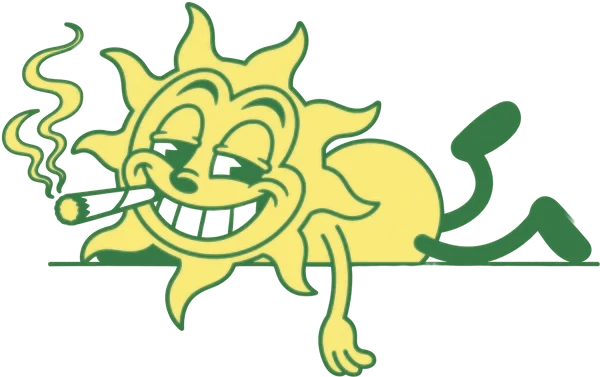
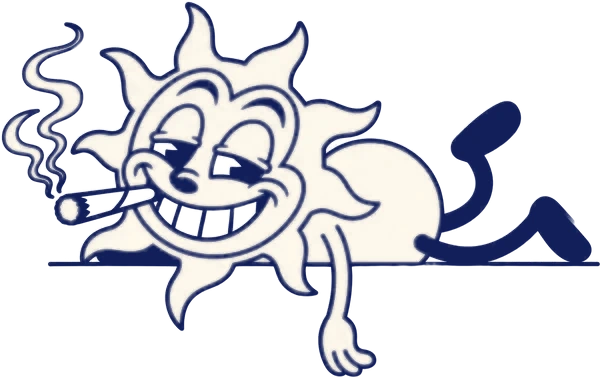
Switch the site to navy on cream
Navy #111E5A and cream #FEF4E3 replace the logo green and yellow. Cream
is the accent on navy (buttons, highlights); a soft navy marks accents
on the cream page. The Instagram band turns navy with a cream button,
and the current menu item is underlined so it still stands out.

Mascots are recoloured to cream with navy line work, logos are rebuilt
in exact navy and cream from the logo artwork, and the favicon and
theme colour follow.

diff --git a/src/styles/global.css b/src/styles/global.css
@@ -1,23 +1,23 @@
 :root {
-  /* Brand palette from the Mister Mellow logo: green #347845 on yellow #FBEB77.
-     Token names are kept from the first (navy/orange) palette so every rule picks the new colours up. */
-  --navy: #347845;      /* brand green: header, footer, panels, buttons, headings */
-  --navy-2: #2b6639;    /* slightly deeper green for panels on green */
-  --orange: #fbeb77;    /* brand yellow: accents on green, yellow buttons */
-  --orange-2: #fff29a;
-  --deep-yellow: #d9b92c; /* yellow that still shows on the light background */
-  --cream: #fffbea;
-  --paper: #fffdf2;
-  --purple: #1f4a29;    /* dark green for eyebrows and italic accents */
-  --lavender: #e4f0e2;  /* pale tints for product tiles and boxes */
-  --peach: #fff3bf;
-  --pink: #eef5e4;
-  --butter: #fff6b8;
-  --ink: #1f4a29;
-  --muted: #3d5c45;
+  /* Navy on cream: navy #111E5A and cream #FEF4E3.
+     Token names are kept from the first (navy/orange) palette so every rule picks the colours up. */
+  --navy: #111e5a;      /* header, footer, panels, buttons, headings */
+  --navy-2: #1c2b72;    /* slightly lighter navy for panels on navy */
+  --orange: #fef4e3;    /* accent on navy: cream buttons, highlights, prices */
+  --orange-2: #fffaf0;
+  --deep-yellow: #6f7bb5; /* soft navy accent that still shows on cream (sticker shadows, focus rings) */
+  --cream: #fef4e3;
+  --paper: #fffaf1;
+  --purple: #111e5a;    /* eyebrows and italic accents */
+  --lavender: #e9e8f1;  /* pale tints for product tiles and boxes */
+  --peach: #f8ecd6;
+  --pink: #efebf0;
+  --butter: #faf0db;
+  --ink: #111e5a;
+  --muted: #3e4874;
   --sky: #6fb1e0;
-  --bg: #fdf7d2;        /* light yellow page background */
-  --line: rgba(31, 74, 41, 0.16);
+  --bg: #fef4e3;        /* cream page background */
+  --line: rgba(17, 30, 90, 0.14);
   --radius: 22px;
   --display: "Archivo Black", "Arial Black", sans-serif;
   --serif: "Cormorant Garamond", Georgia, serif;
@@ -125,7 +125,7 @@ h1, h2, h3 { margin: 0; line-height: 1.02; }
   color: var(--cream);
   transition: box-shadow 0.3s ease;
 }
-.site-header.scrolled { box-shadow: 0 10px 30px rgba(31, 74, 41, 0.3); }
+.site-header.scrolled { box-shadow: 0 10px 30px rgba(17, 30, 90, 0.3); }
 .nav {
   display: flex;
   align-items: center;
@@ -153,7 +153,7 @@ h1, h2, h3 { margin: 0; line-height: 1.02; }
   border-radius: 6px;
 }
 .nav-links > li > a:hover,
-.nav-links > li > a[aria-current="page"] { color: var(--orange); }
+.nav-links > li > a[aria-current="page"] { color: var(--orange); text-decoration: underline; text-decoration-thickness: 2px; text-underline-offset: 6px; }
 .caret { font-size: 10px; margin-left: 2px; }
 .has-menu { position: relative; }
 .submenu {
@@ -166,7 +166,7 @@ h1, h2, h3 { margin: 0; line-height: 1.02; }
   padding: 8px;
   background: var(--paper);
   border-radius: 8px;
-  box-shadow: 0 20px 40px rgba(31, 74, 41, 0.25);
+  box-shadow: 0 20px 40px rgba(17, 30, 90, 0.25);
   opacity: 0;
   visibility: hidden;
   transform: translateY(6px);
@@ -293,7 +293,7 @@ h1, h2, h3 { margin: 0; line-height: 1.02; }
   color: var(--navy);
   font-weight: 700;
   font-size: 15px;
-  box-shadow: 0 8px 22px rgba(31, 74, 41, 0.12);
+  box-shadow: 0 8px 22px rgba(17, 30, 90, 0.12);
 }
 .free-ship svg { flex: none; color: var(--navy); }
 .free-ship strong { font-weight: 800; color: var(--navy); }
@@ -310,14 +310,14 @@ h1, h2, h3 { margin: 0; line-height: 1.02; }
   position: absolute;
   inset: 40px;
   border-radius: 50%;
-  border: 1.5px dashed rgba(31, 74, 41, 0.2);
+  border: 1.5px dashed rgba(17, 30, 90, 0.2);
   animation: spin 80s linear infinite;
 }
 .hero-mascot {
   position: relative;
   width: min(360px, 74%);
   height: auto;
-  filter: drop-shadow(0 22px 30px rgba(31, 74, 41, 0.22));
+  filter: drop-shadow(0 22px 30px rgba(17, 30, 90, 0.22));
   animation: float 7s ease-in-out infinite;
   transform-origin: 50% 100%;
 }
@@ -377,7 +377,7 @@ h1, h2, h3 { margin: 0; line-height: 1.02; }
   place-items: center;
   overflow: hidden;
   border: 2px solid var(--paper);
-  box-shadow: 0 12px 26px rgba(31, 74, 41, 0.12);
+  box-shadow: 0 12px 26px rgba(17, 30, 90, 0.12);
   transition: transform 0.3s ease;
 }
 .cat-tile:hover .cat-media { transform: translateY(-6px) rotate(-1.5deg); }
@@ -412,8 +412,8 @@ h1, h2, h3 { margin: 0; line-height: 1.02; }
   rotate: -14deg;
 }
 .promo-navy { background: linear-gradient(135deg, var(--navy), var(--navy-2)); color: var(--cream); }
-.promo-pink { background: linear-gradient(135deg, var(--lavender), #c9e2c1); color: var(--ink); }
-.promo-orange { background: linear-gradient(135deg, var(--orange), var(--deep-yellow)); color: var(--ink); }
+.promo-pink { background: linear-gradient(135deg, var(--paper), var(--peach)); color: var(--ink); }
+.promo-orange { background: linear-gradient(135deg, #dfe3f3, #b9c1e3); color: var(--ink); }
 .promo-eyebrow { font-weight: 800; font-size: 12px; letter-spacing: 0.22em; text-transform: uppercase; }
 .promo-big { font-family: var(--display); font-size: clamp(48px, 5.4vw, 72px); line-height: 1; margin-top: 10px; }
 .promo-small { font-family: var(--serif); font-style: italic; font-size: 22px; }
@@ -433,10 +433,10 @@ h1, h2, h3 { margin: 0; line-height: 1.02; }
   overflow: hidden;
   display: flex;
   flex-direction: column;
-  box-shadow: 0 12px 30px rgba(31, 74, 41, 0.1);
+  box-shadow: 0 12px 30px rgba(17, 30, 90, 0.1);
   transition: transform 0.3s ease, box-shadow 0.3s ease;
 }
-.pcard:hover { transform: translateY(-5px); box-shadow: 0 22px 44px rgba(31, 74, 41, 0.18); }
+.pcard:hover { transform: translateY(-5px); box-shadow: 0 22px 44px rgba(17, 30, 90, 0.18); }
 .pcard[hidden] { display: none; }
 .pcard-media {
   position: relative;
@@ -501,7 +501,7 @@ h1, h2, h3 { margin: 0; line-height: 1.02; }
   background: linear-gradient(90deg, #e5601b, var(--orange) 40%, #ffa266 60%, var(--orange));
   display: grid;
   place-items: center;
-  box-shadow: 0 22px 40px rgba(31, 74, 41, 0.25);
+  box-shadow: 0 22px 40px rgba(17, 30, 90, 0.25);
   margin-top: 12%;
 }
 .lighter::before {
@@ -526,7 +526,7 @@ h1, h2, h3 { margin: 0; line-height: 1.02; }
   flex-direction: column;
   align-items: center;
   padding: 22% 10% 0;
-  box-shadow: 0 22px 40px rgba(31, 74, 41, 0.25), inset 0 0 0 1px rgba(255, 255, 255, 0.15);
+  box-shadow: 0 22px 40px rgba(17, 30, 90, 0.25), inset 0 0 0 1px rgba(255, 255, 255, 0.15);
   transition: transform 0.5s ease;
 }
 .pouch::before {
@@ -577,7 +577,7 @@ h1, h2, h3 { margin: 0; line-height: 1.02; }
   align-items: center;
   justify-content: center;
   gap: 8px;
-  box-shadow: 0 22px 40px rgba(31, 74, 41, 0.25), inset -6px 0 10px rgba(0, 0, 0, 0.1), inset 6px 0 10px rgba(255, 255, 255, 0.35);
+  box-shadow: 0 22px 40px rgba(17, 30, 90, 0.25), inset -6px 0 10px rgba(0, 0, 0, 0.1), inset 6px 0 10px rgba(255, 255, 255, 0.35);
   transition: transform 0.5s ease;
 }
 .tube::before { top: 4%; }
@@ -671,7 +671,7 @@ h1, h2, h3 { margin: 0; line-height: 1.02; }
   grid-template-columns: 1fr 1.2fr;
   gap: 48px;
   align-items: center;
-  box-shadow: 0 24px 50px rgba(31, 74, 41, 0.25);
+  box-shadow: 0 24px 50px rgba(17, 30, 90, 0.25);
 }
 .panel-title { font-family: var(--display); font-size: clamp(32px, 4vw, 48px); text-transform: uppercase; line-height: 1; }
 .panel-lead { color: rgba(253, 243, 228, 0.8); margin: 16px 0 0; }
@@ -723,7 +723,7 @@ h1, h2, h3 { margin: 0; line-height: 1.02; }
   background: var(--paper);
   border-radius: 10px;
   padding: clamp(28px, 4vw, 52px);
-  box-shadow: 0 16px 40px rgba(31, 74, 41, 0.12);
+  box-shadow: 0 16px 40px rgba(17, 30, 90, 0.12);
 }
 .find-copy p { color: var(--muted); }
 .find-copy .hero-actions { margin-top: 24px; }
@@ -780,7 +780,7 @@ h1, h2, h3 { margin: 0; line-height: 1.02; }
 }
 
 /* ---------- cta band ---------- */
-.cta-band { background: var(--orange); color: var(--navy); padding: clamp(44px, 6vw, 72px) 0; margin-top: 40px; }
+.cta-band { background: var(--navy); color: var(--cream); padding: clamp(44px, 6vw, 72px) 0; margin-top: 40px; }
 /* the navy story section runs straight into the orange band, no cream gap */
 .story:has(+ .cta-band) { margin-bottom: 0; }
 .story + .cta-band { margin-top: 0; }
@@ -789,7 +789,9 @@ main > .story:last-child { margin-bottom: 0; }
 /* ...and when it opens the page (About), straight under the header */
 main > .story:first-child { margin-top: 0; }
 .cta-inner { display: flex; align-items: center; justify-content: space-between; gap: 30px; flex-wrap: wrap; }
-.cta-band .kicker { color: var(--navy); opacity: 0.8; }
+.cta-band .kicker { color: var(--cream); opacity: 0.8; }
+.cta-band .btn-navy { background: var(--cream); color: var(--navy); }
+.cta-band .btn-navy:hover { background: var(--orange-2); }
 .cta-band h2 { font-family: var(--display); font-size: clamp(36px, 5vw, 60px); text-transform: uppercase; line-height: 1; }
 .cta-band p { margin: 12px 0 0; max-width: 520px; }
 
@@ -980,7 +982,7 @@ main > .story:first-child { margin-top: 0; }
   background: var(--paper);
   border-radius: 8px;
   padding: 8px;
-  box-shadow: 0 10px 26px rgba(31, 74, 41, 0.12);
+  box-shadow: 0 10px 26px rgba(17, 30, 90, 0.12);
 }
 .subnav a {
   flex: none;
@@ -1032,7 +1034,7 @@ main > .story:first-child { margin-top: 0; }
 .show-md { display: none; }
 .sr-only { position: absolute; width: 1px; height: 1px; overflow: hidden; clip: rect(0 0 0 0); white-space: nowrap; }
 
-.cart-backdrop { position: fixed; inset: 0; z-index: 80; background: rgba(31, 74, 41, 0.45); backdrop-filter: blur(3px); }
+.cart-backdrop { position: fixed; inset: 0; z-index: 80; background: rgba(17, 30, 90, 0.45); backdrop-filter: blur(3px); }
 .cart-backdrop[hidden] { display: none; }
 .cart-drawer {
   position: fixed;
@@ -1046,7 +1048,7 @@ main > .story:first-child { margin-top: 0; }
   flex-direction: column;
   transform: translateX(100%);
   transition: transform 0.35s ease;
-  box-shadow: -20px 0 50px rgba(31, 74, 41, 0.25);
+  box-shadow: -20px 0 50px rgba(17, 30, 90, 0.25);
 }
 .cart-drawer.open { transform: none; }
 .cart-head {
@@ -1114,10 +1116,10 @@ main > .story:first-child { margin-top: 0; }
 .ship-meter { margin: 0 0 14px; padding: 12px 14px; border-radius: 8px; background: var(--lavender); color: var(--navy); }
 .ship-meter p { margin: 0 0 8px; font-size: 14px; }
 .ship-meter strong { font-weight: 800; }
-.ship-bar { height: 8px; border-radius: 4px; background: rgba(31, 74, 41, 0.12); overflow: hidden; }
+.ship-bar { height: 8px; border-radius: 4px; background: rgba(17, 30, 90, 0.12); overflow: hidden; }
 .ship-bar span { display: block; height: 100%; width: 0; border-radius: 4px; background: var(--navy); transition: width 0.4s ease; }
 .ship-meter.done { background: var(--butter); }
-.ship-meter.done .ship-bar span { background: #2f9e5b; }
+.ship-meter.done .ship-bar span { background: var(--navy); }
 
 /* ---------- product page ---------- */
 .crumbs { display: flex; flex-wrap: wrap; gap: 8px; font-size: 13px; font-weight: 700; color: var(--navy); margin-bottom: 22px; }
@@ -1130,7 +1132,7 @@ main > .story:first-child { margin-top: 0; }
   background: var(--paper);
   border-radius: 12px;
   padding: clamp(16px, 2.4vw, 28px);
-  box-shadow: 0 16px 40px rgba(31, 74, 41, 0.12);
+  box-shadow: 0 16px 40px rgba(17, 30, 90, 0.12);
 }
 .pdp-media {
   position: relative;
@@ -1153,7 +1155,7 @@ main > .story:first-child { margin-top: 0; }
   border-radius: 14px;
   background: var(--navy);
   display: block;
-  box-shadow: 0 18px 40px rgba(31, 74, 41, 0.18);
+  box-shadow: 0 18px 40px rgba(17, 30, 90, 0.18);
 }
 @media (max-width: 760px) {
   /* swipe sideways between clips on phones; each fills most of the screen width */
@@ -1216,7 +1218,7 @@ main > .story:first-child { margin-top: 0; }
 /* ---------- checkout ---------- */
 .checkout { display: grid; grid-template-columns: 1.5fr 1fr; gap: 22px; align-items: start; }
 .checkout-main { display: grid; gap: 22px; }
-.panel { background: var(--paper); border-radius: 10px; padding: clamp(20px, 3vw, 30px); box-shadow: 0 16px 40px rgba(31, 74, 41, 0.1); }
+.panel { background: var(--paper); border-radius: 10px; padding: clamp(20px, 3vw, 30px); box-shadow: 0 16px 40px rgba(17, 30, 90, 0.1); }
 .panel-h { font-family: var(--display); font-size: 22px; text-transform: uppercase; color: var(--navy); margin-bottom: 12px; }
 .summary { position: sticky; top: 120px; }
 .sum-row { display: flex; justify-content: space-between; gap: 12px; padding: 10px 0; color: var(--navy); border-bottom: 1px solid var(--line); font-size: 15px; }
@@ -1233,7 +1235,7 @@ main > .story:first-child { margin-top: 0; }
   font-weight: 500;
   letter-spacing: 0;
   padding: 13px 14px;
-  border: 1.5px solid rgba(31, 74, 41, 0.3);
+  border: 1.5px solid rgba(17, 30, 90, 0.3);
   border-radius: 6px;
   background: #fff;
   color: var(--ink);
@@ -1304,7 +1306,7 @@ main > .story:first-child { margin-top: 0; }
   position: fixed;
   inset: 0;
   z-index: 100;
-  background: rgba(31, 74, 41, 0.86);
+  background: rgba(17, 30, 90, 0.86);
   backdrop-filter: blur(12px);
   -webkit-backdrop-filter: blur(12px);
   display: grid;
@@ -1472,7 +1474,7 @@ body.locked { overflow: hidden; }
   height: 80%;
   object-fit: contain;
   /* navy-tinted shadow so the cut-outs sit on the pastel cards instead of floating on grey */
-  filter: drop-shadow(0 14px 18px rgba(31, 74, 41, 0.2)) drop-shadow(0 3px 4px rgba(31, 74, 41, 0.12));
+  filter: drop-shadow(0 14px 18px rgba(17, 30, 90, 0.2)) drop-shadow(0 3px 4px rgba(17, 30, 90, 0.12));
   transition: transform 0.5s ease;
 }
 

diff --git a/src/data/products.ts b/src/data/products.ts
@@ -340,5 +340,5 @@ export const cartData = (p: Product, v: Variant = shopVariants(p)[0]) =>
     price: v.retail,
     size: v.size || undefined,
     tint: p.tint,
-    thumb: p.visual.kind === "photo" || p.visual.kind === "packshot" ? p.visual.src : "/img/logo-green.png",
+    thumb: p.visual.kind === "photo" || p.visual.kind === "packshot" ? p.visual.src : "/img/logo-navy.png",
   });
